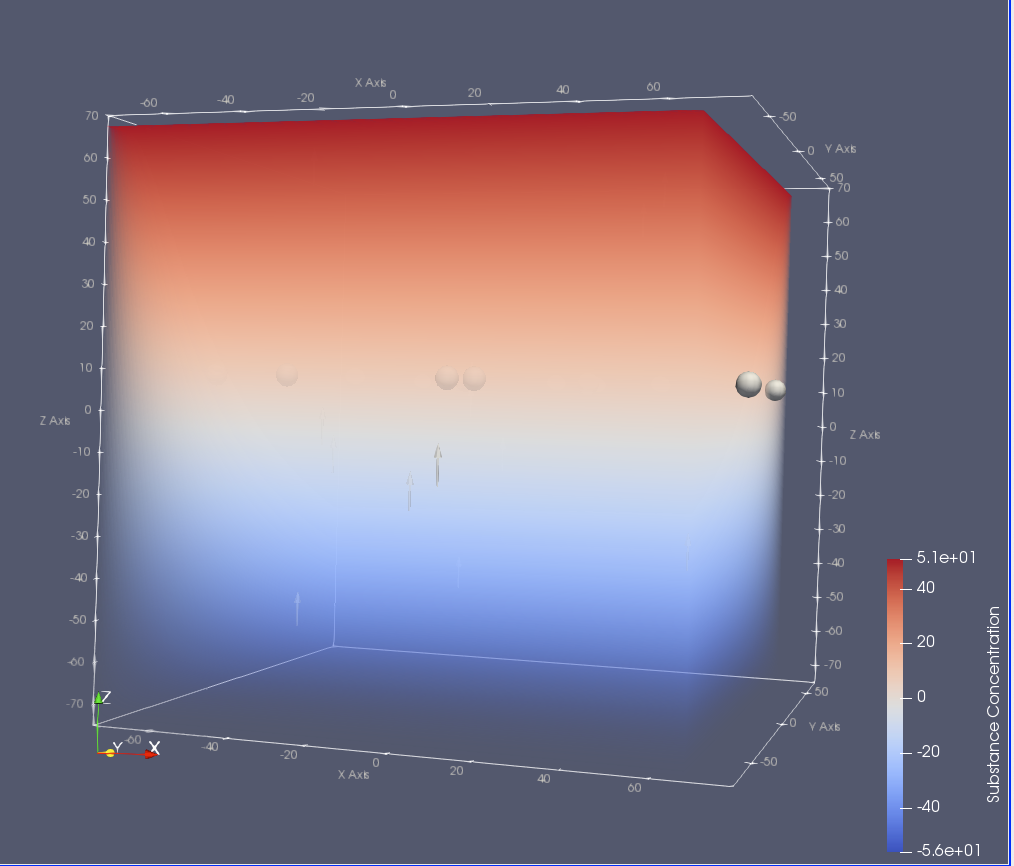
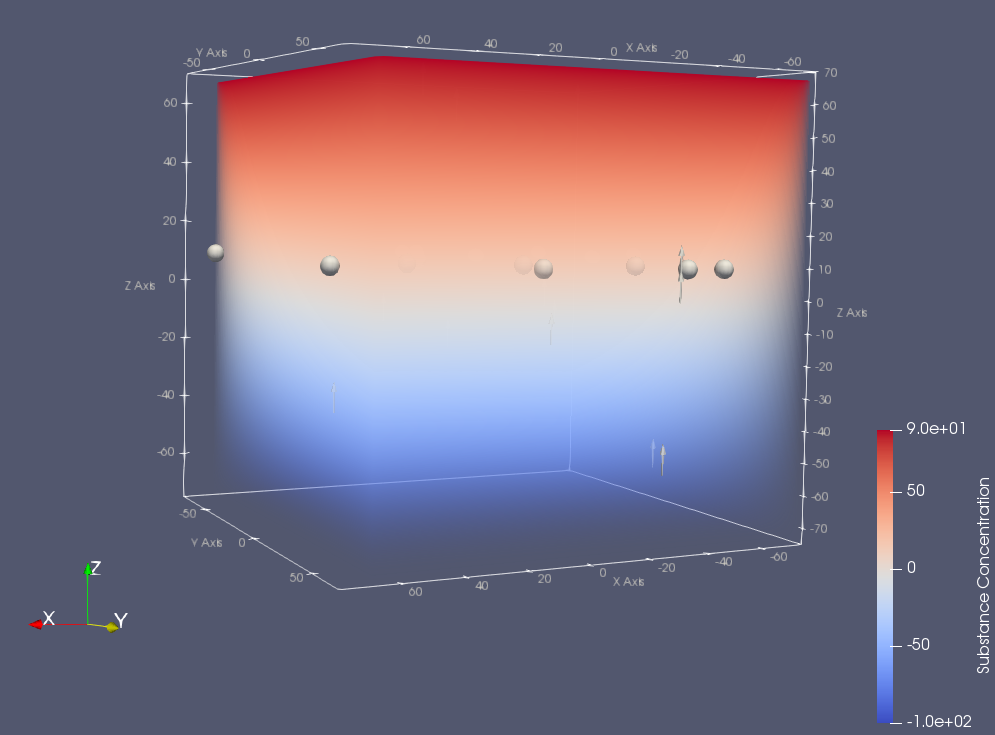
fixes issue with slope computation. It was dx/dy, but should be dy/dx...

diff --git a/src/substance_initializer.h b/src/substance_initializer.h
@@ -65,7 +65,7 @@ struct LinearConcentration {
         axis_ = axis;
 
         // compute slope of the linear function
-        slope_ = (endpos_ - startpos_) / (endvalue_ - startvalue_);
+        slope_ = (endvalue_ - startvalue_) / (endpos_ - startpos_);
         // and its intercept
         intercept_ = startvalue_ - (slope_ * startpos_);
     }

diff --git a/README.md b/README.md
@@ -6,7 +6,7 @@ Init a substance globally to create a diffusion gradient for cells to move along
 The example shows a substance initializer `LinearConcentration()` that creates a linear concentration along one axis given two points of the line i.e. (startpos_, startvalue_) and (endpos_, endvalue_)
 The linear concentration results in a constant gradient along the axis. 
 
-![Image of Yaktocat](doc/img/linear_concentration.png)
+![](doc/img/linear_concentration.png)
 
 ## Version
 ```
